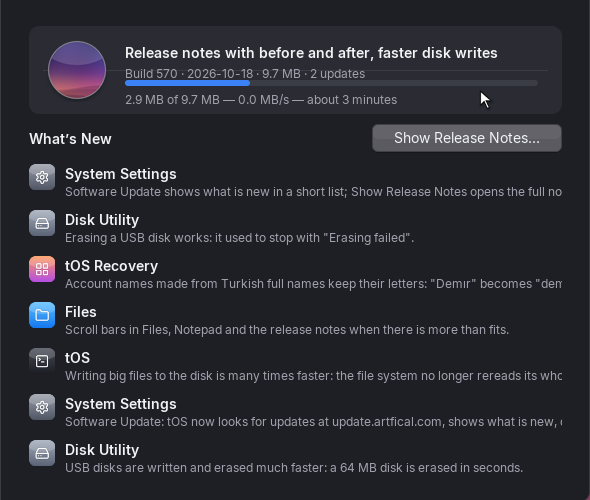
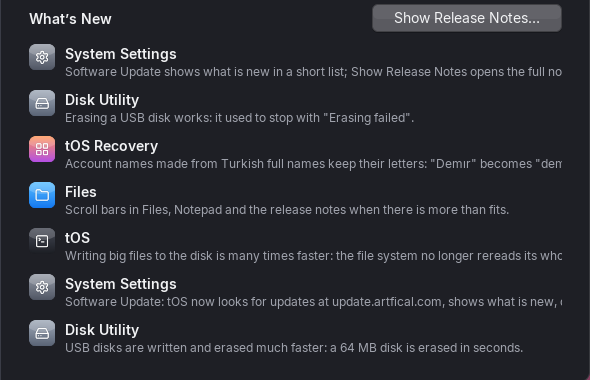
Software Update: free the notes' video frames before downloading; What's New before/after
- A video strip in the release notes decodes to ~12 MB; with two of them held, the kernel
  or initrd buffer could not be allocated and the update stopped with "Not enough memory
  for the update". The frames are given back before the download starts.
- The update card is one block now: the divider of a two-row group ran through the
  build/size line under the update's name.

Changed region(s): [[0.0305, 0.0, 0.9763, 0.9553]]

diff --git a/kernel/core/update.c b/kernel/core/update.c
@@ -318,6 +318,13 @@ static void download_task(void)
     info.total = info.ksize + info.isize;
     info.got = 0; info.speed = 0;
     dl_base = 0; dl_last_ms = debugmon_uptime_ms(); dl_last_bytes = 0;
+    /* a video in the notes holds all its frames (~12 MB): give them back first, or the
+     * kernel and initrd may find no room. The notes window stops drawing them once the pointer
+     * is gone; wait a frame before freeing what it may still be drawing from. */
+    uint8_t *frames[UPD_MAX_SHOTS]; int nf = 0;
+    for (int i = 0; i < info.nshots; i++)
+        if (info.shots[i].rgba && info.shots[i].frames > 1) { frames[nf++] = info.shots[i].rgba; info.shots[i].rgba = 0; }
+    if (nf) { task_sleep(100); while (nf) free(frames[--nf]); }
     if (!vfs_exists(STAGE)) vfs_mkdir(STAGE, 0700);
     vfs_unlink(STAGE "/ready");                      /* an older staged update is replaced */
     uint8_t *buf, *body; uint32_t len;

diff --git a/kernel/display/apps/settings.c b/kernel/display/apps/settings.c
@@ -253,8 +253,9 @@ static void draw_update(uiapp_t *a, set_t *st, gfx_surface_t *s, int px, int gy,
     const update_info_t *u = uihost_update_status();
     if (!st->asked) { st->asked = 1; if (u->state == UPD_IDLE || u->state == UPD_ERROR) uihost_update_check(); }
     char v[160];
-    /* the card at the top: what this computer runs and what there is */
-    group(s, px, gy, pw, 2);
+    /* the card at the top: what this computer runs and what there is (one block, no rule:
+     * the build line under the title would sit on it) */
+    gfx_rrect(s, px, gy, pw, 88, 10, UI_CARD, 255);
     gfx_blit(s, gfx_image("rec_install"), px + 16, gy + 12, 255);
     int tx = px + 96, ty = gy + 18;
     if (u->state == UPD_AVAILABLE || u->state == UPD_DOWNLOADING || u->state == UPD_READY) {

diff --git a/UPDATE_NOTES.md b/UPDATE_NOTES.md
@@ -1,24 +1,9 @@
-# Animations, and updates that reach every computer
-
-## launcher | Desktop
-- Minimising a window pours it into its app's icon in the Dock, the way the Mac's genie does;
-  clicking the icon brings it back out the same way.
-- Logging in: the blurred lock screen clears into the desktop instead of cutting to it.
-- Menus in the menu bar fade in and drop into place when they open.
-![Minimising System Settings into the Dock and bringing it back](docs/videos/genie.mp4)
-![Logging in](docs/videos/login.mp4)
+# Tidier Software Update
 
 ## settings | System Settings
-- Text that is longer than its room ends in "…" instead of running under the buttons next to
-  it: Software Update, Files, Notepad, Disk Utility, notifications and window titles.
-- Software Update resumes a download where the connection dropped instead of failing.
-
-## settings | Software Update
-- Release notes can show videos: they play inside the notes window.
-
-## terminal | tOS
-- Builds made by GitHub could not look up any name (DNS), so Software Update said the server
-  could not be found: the compiler they use dropped the addresses from every UDP checksum.
-- Two programs using the disk at once no longer make both fail ("The update could not be saved
-  on the disk").
-- Starting up no longer prints a thousand "out of physical pages" lines before the logo.
+- What's New lines end in "…" instead of being cut off mid-word at the edge of the window.
+- The line under the update's name no longer runs through the build number.
+- Updating no longer fails with "Not enough memory for the update" after watching the videos
+  in the release notes.
+![Before: What's New lines were cut off mid-word](docs/screenshots/notes/whatsnew_before.png)
+![After: each line ends cleanly in "…"](docs/screenshots/notes/whatsnew_after.png)
